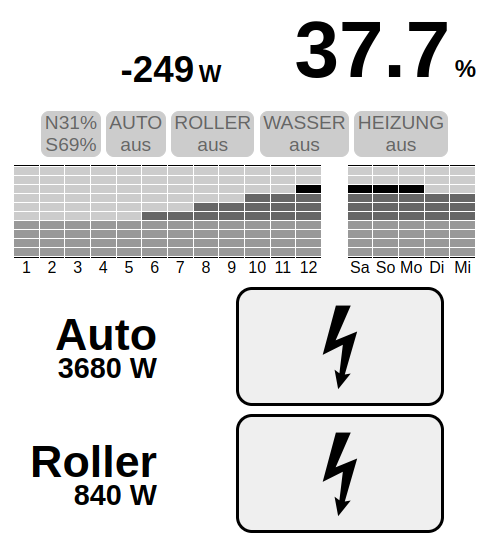
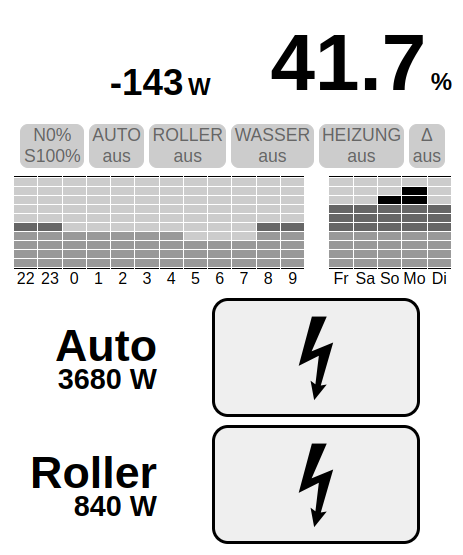
Verbrennen bei Überlauf aktiviert

Changed region(s): [[0.0302, 0.0306, 0.9978, 0.9802], [0.0605, 0.7964, 0.3629, 0.9495], [0.0907, 0.5514, 0.3326, 0.7045]]

diff --git a/sd-karteninhalt/index.html b/sd-karteninhalt/index.html
@@ -126,6 +126,8 @@
 			_setze_ladewunsch('roller_laden', daten['roller_laden'], daten['timestamp']);
 			document.getElementById('roller_ladeleistung').innerHTML = daten['roller_benoetigte_ladeleistung_in_w'] + " W";
 			
+			document.getElementById('verbrennen').className = daten['verbrennen'] ? 'on' : 'off';
+			document.getElementById('verbrennen').getElementsByClassName('ladestatus')[0].innerHTML = daten['verbrennen'] ? "an" : "aus";
 			document.getElementById('wasser_ueberladen').className = daten['wasser_ueberladen'] ? 'on' : 'off';
 			document.getElementById('wasser_ueberladen').getElementsByClassName('ladestatus')[0].innerHTML = daten['wasser_ueberladen'] ? "l&auml;dt" : "aus";
 			document.getElementById('heizung_ueberladen').className = daten['heizung_ueberladen'] ? 'on' : 'off';
@@ -428,7 +430,7 @@
 		}
 		
 		.zusatzinfo {
-			font-size: 1.2rem;
+			font-size: 1.1rem;
 			text-align: center;
 		}
 			.zusatzinfo>span {
@@ -525,6 +527,10 @@
 	</span>
 	<span id="heizung_ueberladen">
 		HEIZUNG
+		<br><span class="ladestatus">-</span>
+	</span>
+	<span id="verbrennen">
+		&Delta;
 		<br><span class="ladestatus">-</span>
 	</span>
 </div>

diff --git a/zentrale/api/verbraucher_api.h b/zentrale/api/verbraucher_api.h
@@ -18,6 +18,8 @@ namespace Local::Api {
 
 		const char* wasser_relay_zustand_seit_filename = "wasser_relay.status";
 
+		const char* verbrennen_relay_zustand_seit_filename = "verbrennen_relay.status";
+
 		const char* roller_relay_zustand_seit_filename = "roller_relay.zustand_seit";
 		const char* roller_ladestatus_filename = "roller.ladestatus";
 		const char* roller_leistung_filename = "roller_leistung.status";
@@ -166,14 +168,24 @@ namespace Local::Api {
 			verbraucher.roller_relay_ist_an = shelly_roller_cache_ison;
 			verbraucher.roller_relay_zustand_seit = _lese_zustand_seit(roller_relay_zustand_seit_filename);
 			yield();// ESP-Controller zeit fuer interne Dinge (Wlan z.B.) geben
+
+			verbraucher.verbrennen_relay_ist_an = _shelly_plug_ist_an(cfg->verbrennen_relay_host, cfg->verbrennen_relay_port);
+			verbraucher.verbrennen_relay_zustand_seit = _lese_zustand_seit(verbrennen_relay_zustand_seit_filename);
+			yield();// ESP-Controller zeit fuer interne Dinge (Wlan z.B.) geben
+		}
+
+		bool _shelly_plug_ist_an(const char* host, int port) {
+			web_reader->send_http_get_request(host, port, "/status");
+			while(web_reader->read_next_block_to_buffer()) {
+				if(web_reader->find_in_buffer((char*) "\"ison\":true")) {
+					return true;
+				}
+			}
+			return false;
 		}
 
 		bool _netz_relay_ist_an(const char* host, int port) {
-			web_reader->send_http_get_request(
-				host,
-				port,
-				"/relay"
-			);
+			web_reader->send_http_get_request(host, port, "/relay");
 			while(web_reader->read_next_block_to_buffer()) {
 				if(web_reader->find_in_buffer((char*) "\"ison\":true")) {
 					return true;
@@ -212,6 +224,17 @@ namespace Local::Api {
 				);
 			}
 			if(file_writer.open_file_to_overwrite(roller_relay_zustand_seit_filename)) {
+				file_writer.write_formated("%d", timestamp);
+				file_writer.close_file();
+			}
+		}
+
+		void _schalte_verbrennen_relay(bool ein) {
+			_schalte_shellyplug(
+				ein, cfg->verbrennen_relay_host, cfg->verbrennen_relay_port,
+				web_reader->default_timeout_in_hundertstel_s
+			);
+			if(file_writer.open_file_to_overwrite(verbrennen_relay_zustand_seit_filename)) {
 				file_writer.write_formated("%d", timestamp);
 				file_writer.close_file();
 			}
@@ -612,6 +635,49 @@ namespace Local::Api {
 			)) {
 				return;
 			}
+
+			if(_schalte_verbrennen_automatisch(verbraucher)) {
+				return;
+			}
+		}
+
+		bool _schalte_verbrennen_automatisch(
+			Local::Model::Verbraucher& verbraucher
+		) {
+			char* log_key = (char*) "verbrennen";
+			bool schalt_mindestdauer_ist_erreicht =
+				timestamp - verbraucher.verbrennen_relay_zustand_seit
+				>=
+				cfg->verbrennen_min_schaltzeit_in_min * 60
+			;
+			if(!schalt_mindestdauer_ist_erreicht) {
+				_log(log_key, (char*) ">SchaltdauerNichtErreicht");
+				return false;
+			}
+
+			if(
+				!verbraucher.verbrennen_relay_ist_an
+				&& verbraucher.solarerzeugung_ist_aktiv()
+				&& verbraucher.aktueller_akku_ladenstand_in_promille > 980
+				&& verbraucher.gib_beruhigten_ueberschuss_in_w() > 50
+			) {
+				_log(log_key, (char*) ">AnWeilAkku");
+				_schalte_verbrennen_relay(true);
+				return true;
+			}
+			if(verbraucher.verbrennen_relay_ist_an) {
+				if(verbraucher.aktueller_akku_ladenstand_in_promille < 960) {
+					_log(log_key, (char*) ">AusWeilAkku");
+					_schalte_verbrennen_relay(false);
+					return true;
+				}
+				if(!verbraucher.solarerzeugung_ist_aktiv()) {
+					_log(log_key, (char*) ">AusWeilSolarAus");
+					_schalte_verbrennen_relay(false);
+					return true;
+				}
+			}
+			return false;
 		}
 
 		template<typename F1>

diff --git a/zentrale/model/verbraucher.h b/zentrale/model/verbraucher.h
@@ -30,6 +30,9 @@ namespace Local::Model {
 		bool heizung_relay_ist_an = false;
 		int heizung_relay_zustand_seit = 0;
 
+		bool verbrennen_relay_ist_an = false;
+		int verbrennen_relay_zustand_seit = 0;
+
 		Ladestatus auto_ladestatus = Local::Model::Verbraucher::Ladestatus::solar;
 		int auto_benoetigte_ladeleistung_in_w = 0;
 		int aktuelle_auto_ladeleistung_in_w = 0;
@@ -145,13 +148,14 @@ namespace Local::Model {
 				wasser_relay_ist_an ? "an" : "aus"
 			);
 			file_writer.write_formated(
-				",vb3,%s,%s,%d,%d,%d,%s",
+				",vb4,%s,%s,%d,%d,%d,%s,%s",
 				(roller_ladestatus == Local::Model::Verbraucher::Ladestatus::force ? "force" : "solar"),
 				roller_laden_ist_an() ? "an" : "aus",
 				roller_benoetigte_ladeleistung_in_w,
 				aktuelle_roller_ladeleistung_in_w,
 				_gib_genutzte_roller_ladeleistung_in_w(),
-				heizung_relay_ist_an ? "an" : "aus"
+				heizung_relay_ist_an ? "an" : "aus",
+				verbrennen_relay_ist_an ? "an" : "aus"
 			);
 		}
 	};

diff --git a/zentrale/_TEMPLATE.config.h b/zentrale/_TEMPLATE.config.h
@@ -19,6 +19,8 @@ namespace Local {
 		int auto_relay_port = 80;
 		const char* heizung_relay_host = "192.168.2.33";
 		const int heizung_relay_port = 80;
+		const char* verbrennen_relay_host = "192.168.2.36";
+		const int verbrennen_relay_port = 80;
 
 		int roller_benoetigte_leistung_gering_in_w = 420;
 		int roller_benoetigte_leistung_hoch_in_w = 840;
@@ -29,6 +31,7 @@ namespace Local {
 		int wasser_min_schaltzeit_in_min = 60;
 		int heizung_benoetigte_leistung_in_w = 420;
 		int heizung_min_schaltzeit_in_min = 60;
+		int verbrennen_min_schaltzeit_in_min = 5;
 
 		// TODO diesen configwert als SD_File ablegen, dann kann das von außen aktualisiert werden
 		int grundverbrauch_in_w_pro_h = 238;

diff --git a/zentrale/web_presenter.h b/zentrale/web_presenter.h
@@ -295,6 +295,10 @@ namespace Local {
 					verbraucher.heizung_relay_ist_an ? "true" : "false"
 				);
 				file_writer.write_formated(
+					"\"verbrennen\":%s,",
+					verbraucher.verbrennen_relay_ist_an ? "true" : "false"
+				);
+				file_writer.write_formated(
 					"\"auto_laden\":%s,\"roller_laden\":%s,",
 					verbraucher.auto_ladestatus == Local::Model::Verbraucher::Ladestatus::force
 						? "\"force\"" : "\"solar\"",

diff --git a/README.md b/README.md
@@ -17,7 +17,8 @@ Konkret:
   - Rechts: Pufferakku-Ladestand
 - Zweite Zeile (v.l.n.r; schwarz=aktiv, grau=inaktiv):
   - Status Solarerzeugung incl relative Verteilung der Leistung der beiden Dachhälften
-  - Ladestatus von Auto-Wallbox, Roller-Lader, Warmwasser-Überladen und Heizungs-Überladen
+  - Ladestatus von Auto-Wallbox, Roller-Lader, Warmwasser-Überladen, Heizungs-Überladen und "Verbrennen" (&Delta;)
+    - Verbrennen = extra Schalt-Dose, die nur bei akkutem Pufferakku-Überlauf aktiviert wird.
 - Dritte Zeile:
   - Links: Vorhersage des Pufferakku-Ladestandes der nächsten 12 Stunden
   - Rechts: Vorhersage der Sonnenenergie der nächsten 5 Tage
@@ -39,9 +40,14 @@ Konkret:
 - 3x "3V Relais Power Switch Board"
   - Werden verwendet, um die potentialfreihen Eingänge der Wärmepumpen und der Wallbox zu schalten
   - Da die ESPs nur sehr wenig Leistung abgeben können, wird jedes Relais von einem weiteren ESP8266-E12 betrieben. Die Steuerung erfolgt via Netzwerk.
-- 1x "Shelly Plug S"
-  - Wird genutzt, um den Roller-Lader zu schalten
+- 2x "Shelly Plug S"
+  - Wird genutzt, um den Roller-Lader zu schalten (1x innen und 1x aussen)
   - wird per WLAN gesteuert
+- "Shelly Plug" 3,5kW
+  - Wird genutzt, um Überschuss irgendwie zu nutzen (z.B. für eine Elektro-Heizung)
+  - wird per WLAN gesteuert
+- Ein "Shelly Button"
+  - aktiviert das Forcierte Laden des Autos (macht die UI obsolet; kann im Auto bleiben)
 - Ein (ausgedienter) KindlePaperwhite der ersten Generation als Anzeige
   - Der genutzte Beta-Browser hat einige Eigenheiten, wewegen die UI auf anderen Geräte schräg aussieht
   - Auf dem Kindle wurde der Bildschirm dauerhaft eingeschaltet via "~ds" im Suchfeld eingeben
@@ -59,7 +65,6 @@ Konkret:
 - Warmwasser-Wärmepumpe "Viessmann Vitocal 060-A, Typ TOS-ze Umluft 254L"
   - via potentialfeiem Eingang kann es "überladen" werden (Zieltemperatur wird temporär auf Maximum gesetzt)
   - [PV-Anschluss Doku](https://www.viessmann-community.com/t5/Waermepumpe-Hybridsysteme/Funktion-PV-Anlage-mit-Vitocal-262-A-und-Vitocal-060-A/m-p/303739/emcs_t/S2h8ZW1haWx8dG9waWNfc3Vic2NyaXB0aW9ufExENDlMU0w2VVlVREtCfDMwMzczOXxTVUJTQ1JJUFRJT05TfGhL#M64397)
-
 Kommt noch:
 - Warmwasser-Wärmepumpe "Viessmann Vitocal 060-A, Typ TOE-ze Umluft 178L" als Heizung
   - Steuerung baugleich wie Warmwasser
@@ -106,5 +111,4 @@ die Geräte nicht.
 -- Solarstrahlungs-Umrechnung umstellen, dass jeden Monat ein anderer Wert genutzt werden kann. Die Werte Schwanken über das Jahr.
 -- Grundverbrauch in Tag und Nacht trennen (und Ladevorgänge herausrechnen) um bessere Vorhersagen zu haben
 - Akku-Haltbarkeit: Laden zwischen 20-80% ist weniger schlimm, 40-60 am wenigsten. Diese Bereiche zusätzlich mit angeben (x% 20-80%, x% 40-60%) 
-- Button für "Pufferakku leeren": Wenn frü Morgens klar ist, dass alles überläuft und das Auto noch Platz hat, dann alles ins Auto pumpen bevor man weg fährt
-- Letztes Überladen einbauen (großer Shelly)
+- Button für "Pufferakku leeren": Wenn früh Morgens klar ist, dass alles überläuft und das Auto noch Platz hat, dann alles ins Auto pumpen bevor man weg fährt
